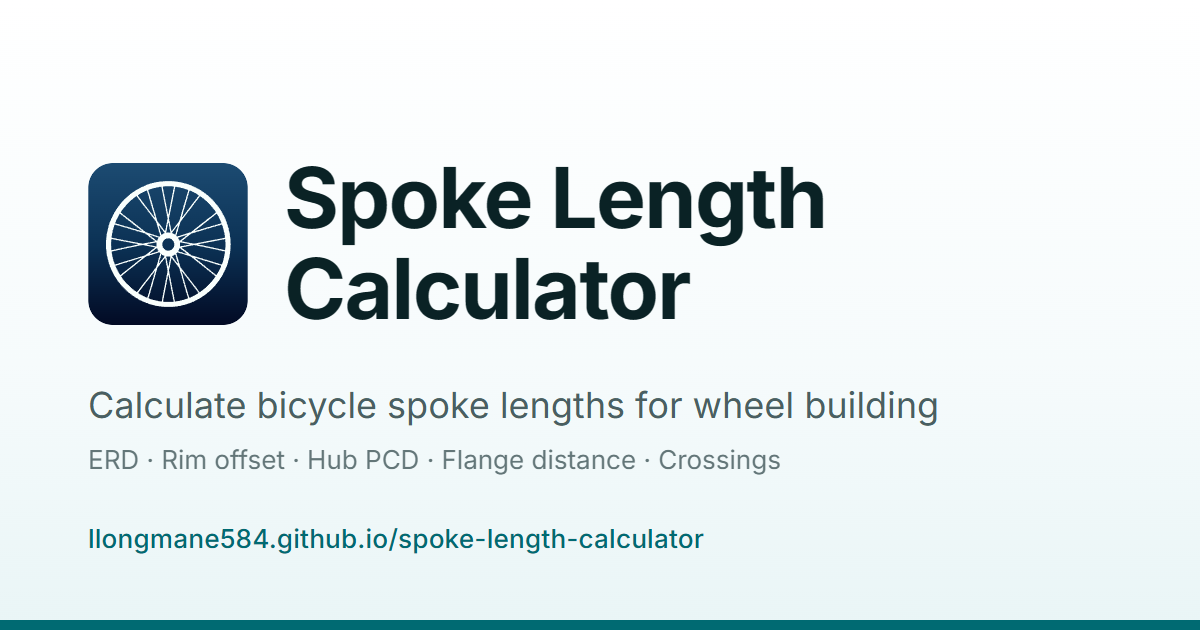
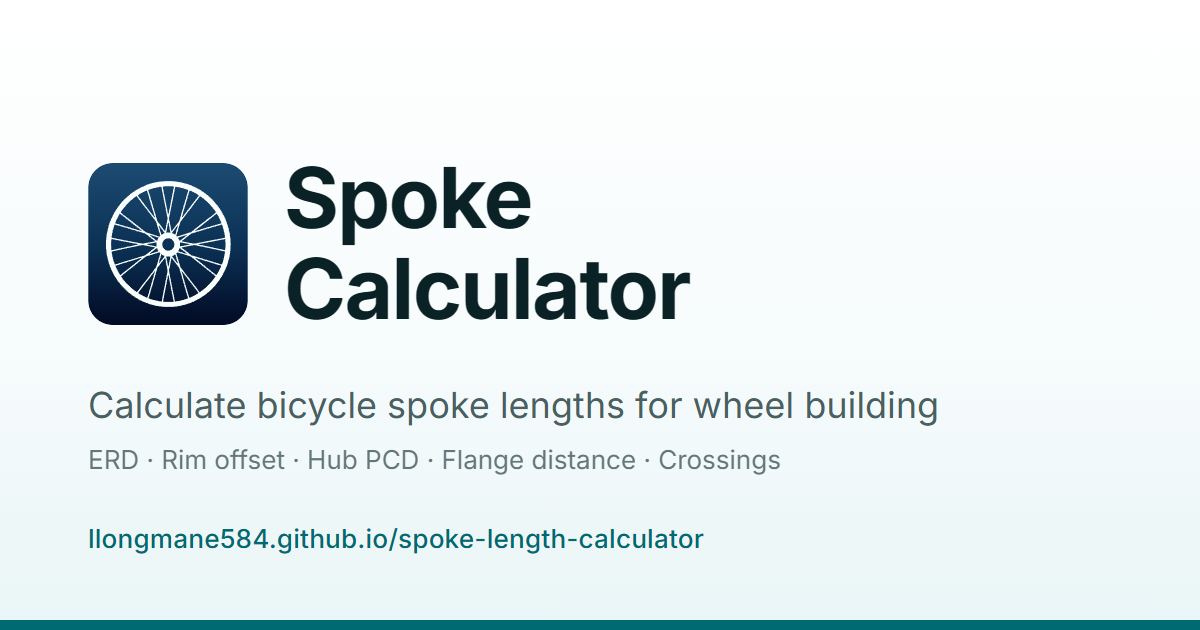
chore: テキスト修正
Claude-Session: https://claude.ai/code/session_01UgapgbX5s5ESb72k3LnuCQ

Changed region(s): [[0.4625, 0.2714, 0.7092, 0.3921]]

diff --git a/index.html b/index.html
@@ -1,5 +1,5 @@
 <!doctype html>
-<html lang="en">
+<html lang="en-GB">
 
 <head>
   <meta charset="UTF-8" />
@@ -18,12 +18,12 @@
        oklch(0.150 0.018 205))。ずれるとモバイルのブラウザクロームだけ別の色になる。 -->
   <meta name="theme-color" media="(prefers-color-scheme: light)" content="#f6fbfc" />
   <meta name="theme-color" media="(prefers-color-scheme: dark)" content="#030d0f" />
-  <meta name="application-name" content="Spoke Length Calculator" />
+  <meta name="application-name" content="Spoke Calculator" />
   <meta name="mobile-web-app-capable" content="yes" />
   <meta name="apple-mobile-web-app-capable" content="yes" />
-  <meta name="apple-mobile-web-app-title" content="Spoke Length" />
+  <meta name="apple-mobile-web-app-title" content="Spoke Calculator" />
   <meta name="apple-mobile-web-app-status-bar-style" content="default" />
-  <title>Spoke Length Calculator</title>
+  <title>Spoke Calculator</title>
   <meta name="description"
     content="Calculate bicycle spoke lengths for wheel building — from ERD, rim offset, hub PCD, flange distance, spoke count and crossings." />
   <link rel="canonical" href="https://llongmane584.github.io/spoke-length-calculator/" />
@@ -33,28 +33,29 @@
        画像を差し替えるときは ?v= ではなくファイル名を変える (og-image-2.png)。
        クエリ付き URL の扱いはスクレイパごとに違う。 -->
   <meta property="og:type" content="website" />
-  <meta property="og:site_name" content="Spoke Length Calculator" />
+  <meta property="og:site_name" content="Spoke Calculator" />
   <meta property="og:url" content="https://llongmane584.github.io/spoke-length-calculator/" />
-  <meta property="og:title" content="Spoke Length Calculator" />
+  <meta property="og:title" content="Spoke Calculator" />
   <meta property="og:description"
     content="Calculate bicycle spoke lengths for wheel building. Enter ERD, rim offset, hub PCD, flange distance, spoke count and crossings to get left and right spoke lengths." />
-  <meta property="og:locale" content="en_US" />
+  <meta property="og:locale" content="en_GB" />
   <meta property="og:image" content="https://llongmane584.github.io/spoke-length-calculator/og-image.png" />
   <meta property="og:image:type" content="image/png" />
   <meta property="og:image:width" content="1200" />
   <meta property="og:image:height" content="630" />
-  <meta property="og:image:alt" content="Spoke Length Calculator — bicycle wheel spoke length calculator" />
+  <meta property="og:image:alt" content="Spoke Calculator — bicycle wheel spoke length calculator" />
   <!-- X のクローラは twitter:title / description / image が無ければ og:* に落ちる。
        ここで要るのは card 種別と、og:image:alt を読まない X 用の画像 alt だけ。 -->
   <meta name="twitter:card" content="summary_large_image" />
-  <meta name="twitter:image:alt" content="Spoke Length Calculator — bicycle wheel spoke length calculator" />
+  <meta name="twitter:image:alt" content="Spoke Calculator — bicycle wheel spoke length calculator" />
   <script>
     (function() {
       var theme = localStorage.getItem('theme');
       if (theme === 'dark' || (!theme && window.matchMedia('(prefers-color-scheme: dark)').matches)) {
         document.documentElement.classList.add('dark');
       }
-      document.documentElement.lang = localStorage.getItem('preferredLanguage') || 'en';
+      var storedLang = localStorage.getItem('preferredLanguage');
+      document.documentElement.lang = storedLang === 'ja' ? 'ja' : 'en-GB';
     })();
   </script>
 </head>

diff --git a/src/components/HelpModal.tsx b/src/components/HelpModal.tsx
@@ -55,7 +55,7 @@ function RimOffsetDiagram() {
       <rect x="105" y="132" width="110" height="26" fill="none" stroke="currentColor" strokeWidth="1.5" />
       <line x1="105" y1="105" x2="105" y2="170" stroke="currentColor" strokeWidth="3" />
       <line x1="215" y1="105" x2="215" y2="170" stroke="currentColor" strokeWidth="3" />
-      {/* rim center plane and offset nipple bed */}
+      {/* rim centre plane and offset nipple bed */}
       <path d="M 122 38 Q 160 22 198 38 L 188 72 Q 160 60 132 72 Z" fill="none" stroke="currentColor" strokeWidth="2" />
       <line x1="160" y1="18" x2="160" y2="176" stroke="currentColor" strokeDasharray="4 3" strokeWidth="1" opacity="0.55" />
       <line x1="178" y1="34" x2="178" y2="82" className="stroke-accent-ink" strokeWidth="3" />
@@ -112,7 +112,7 @@ function FlangeDistanceDiagram() {
       <line x1="200" y1="60" x2="200" y2="140" stroke="currentColor" strokeWidth="3" />
       <circle cx="200" cy="60" r="4" fill="none" stroke="currentColor" strokeWidth="1.2" />
       <circle cx="200" cy="140" r="4" fill="none" stroke="currentColor" strokeWidth="1.2" />
-      {/* centerline */}
+      {/* centreline */}
       <line x1="160" y1="40" x2="160" y2="170" stroke="currentColor" strokeDasharray="4 3" strokeWidth="1" opacity="0.6" />
       <text x="160" y="35" textAnchor="middle" fontSize="9" fill="currentColor" opacity="0.7">{t('input.help.flangeDistance.diagram.hubCenter')}</text>
       {/* left arrow */}

diff --git a/src/i18n.ts b/src/i18n.ts
@@ -4,7 +4,7 @@ import enTranslation from './locales/en.json';
 import jaTranslation from './locales/ja.json';
 
 const resources = {
-  en: {
+  'en-GB': {
     translation: enTranslation
   },
   ja: {
@@ -12,15 +12,18 @@ const resources = {
   }
 };
 
-// Get saved language from localStorage or default to 'en'
-const savedLanguage = localStorage.getItem('preferredLanguage') || 'en';
+// Normalise the saved language. Anything that is not Japanese is English, which
+// also absorbs the legacy 'en' left in localStorage by earlier versions —
+// without this the language <select> would find no matching <option> and blank out.
+const storedLanguage = localStorage.getItem('preferredLanguage');
+const savedLanguage = storedLanguage === 'ja' ? 'ja' : 'en-GB';
 
 i18n
   .use(initReactI18next)
   .init({
     resources,
     lng: savedLanguage,
-    fallbackLng: 'en',
+    fallbackLng: 'en-GB',
     interpolation: {
       escapeValue: false
     }

diff --git a/src/App.tsx b/src/App.tsx
@@ -1463,7 +1463,7 @@ const SpokeLengthCalculator: React.FC = () => {
       results: currentResults,
       timestamp: new Date().toISOString(),
       metadata: {
-        calculator: 'Bicycle Spoke Length Calculator',
+        calculator: 'Bicycle Spoke Calculator',
         version: '1.0'
       }
     };
@@ -1576,7 +1576,7 @@ const SpokeLengthCalculator: React.FC = () => {
                 aria-label={t('language.label')}
                 className={languageSelectClass}
               >
-                <option value="en">English</option>
+                <option value="en-GB">English</option>
                 <option value="ja">日本語</option>
               </select>
               {!supportsBaseSelect && (

diff --git a/og/og-card.html b/og/og-card.html
@@ -1,5 +1,5 @@
 <!doctype html>
-<html lang="en">
+<html lang="en-GB">
 
 <head>
   <meta charset="UTF-8" />
@@ -136,7 +136,7 @@
       <!-- file:// から file:// の <img> は Chromium で読める (塞がれるのは fetch/XHR)。
            空白で出た場合は public/icons/icon-512.png に差し替える。同じ図案。 -->
       <img src="../public/calculator.svg" alt="" />
-      <div class="title">Spoke Length<br />Calculator</div>
+      <div class="title">Spoke<br />Calculator</div>
     </div>
     <div>
       <div class="sub">Calculate bicycle spoke lengths for wheel building</div>

diff --git a/src/rimOffset.test.ts b/src/rimOffset.test.ts
@@ -2,7 +2,7 @@ import assert from 'node:assert/strict';
 import test from 'node:test';
 import { assessRimOffset, getEffectiveFlangeDistances } from './rimOffset.ts';
 
-test('applies the offset toward the smaller flange-distance difference', () => {
+test('applies the offset towards the smaller flange-distance difference', () => {
   assert.deepEqual(
     getEffectiveFlangeDistances({
       flangeDistanceLeft: 35,

diff --git a/README.md b/README.md
@@ -1,4 +1,4 @@
-# Bicycle Spoke Length Calculator
+# Bicycle Spoke Calculator
 
 ## Demo page
 GitHub pages: https://llongmane584.github.io/spoke-length-calculator/
@@ -101,7 +101,7 @@ text renders in Inter rather than a fallback face.
 │   ├── main.tsx                   # Entry point
 │   ├── index.css                  # Tailwind v4 entry + design tokens
 │   ├── styles.ts                  # Shared button / select class strings
-│   ├── i18n.ts                    # Internationalization configuration
+│   ├── i18n.ts                    # Internationalisation configuration
 │   ├── rimOffset.ts               # Rim offset logic
 │   ├── rimOffset.test.ts          # Rim offset unit tests
 │   ├── partPresets.ts             # Hub / rim part preset loading and matching
@@ -115,7 +115,7 @@ text renders in Inter rather than a fallback face.
 │   │   ├── ConfirmDialog.tsx      # Confirmation dialog
 │   │   ├── HelpButton.tsx         # Inline help trigger
 │   │   ├── HelpModal.tsx          # Help modal with SVG diagrams
-│   │   ├── PresetSelect.tsx       # Preset picker (CSS customizable select)
+│   │   ├── PresetSelect.tsx       # Preset picker (CSS customisable select)
 │   │   ├── SegmentedControl.tsx   # Segmented radio group
 │   │   └── Toast.tsx              # Toast notification component
 │   ├── contexts/                  # React contexts

diff --git a/README_ja.md b/README_ja.md
@@ -114,7 +114,7 @@ pnpm lint
 │   │   ├── ConfirmDialog.tsx      # 確認ダイアログ
 │   │   ├── HelpButton.tsx         # インラインヘルプの起動ボタン
 │   │   ├── HelpModal.tsx          # SVG 図解つきヘルプモーダル
-│   │   ├── PresetSelect.tsx       # プリセット選択 (CSS customizable select)
+│   │   ├── PresetSelect.tsx       # プリセット選択 (CSS customisable select)
 │   │   ├── SegmentedControl.tsx   # セグメントコントロール
 │   │   └── Toast.tsx              # トースト通知コンポーネント
 │   ├── contexts/                  # React コンテキスト
